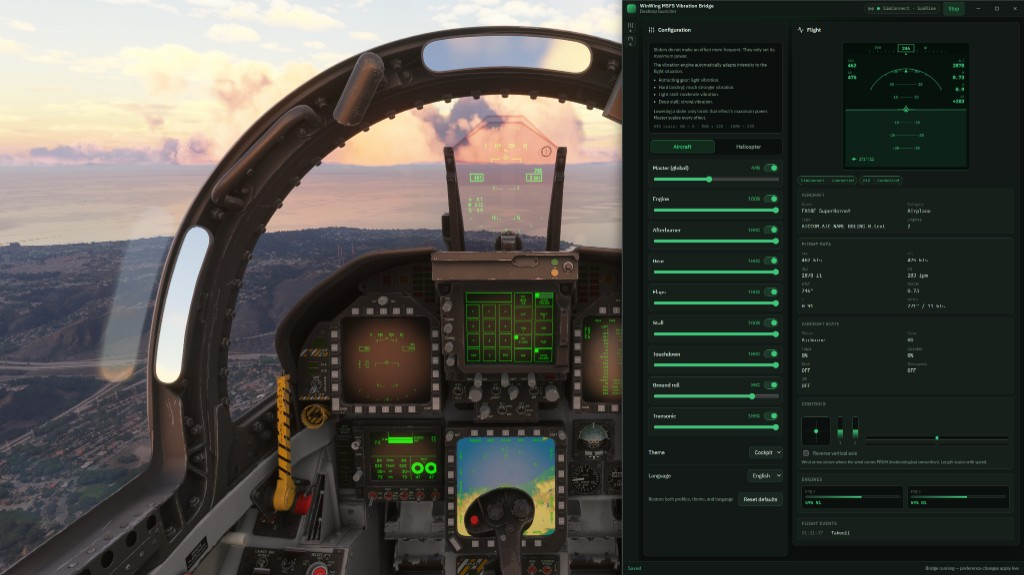
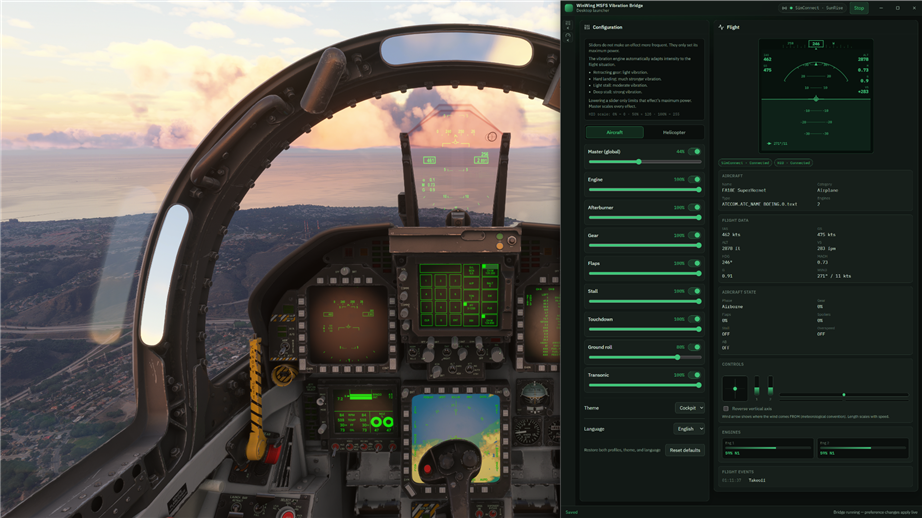
fix: harden panel collapse and keep splitter layout stable
Keep hide/show strictly horizontal with no leftover gap, clamp config width against the flight panel min size on drag/resize, and localize the splitter hints.

diff --git a/apps/launcher/src/ui/app.ts b/apps/launcher/src/ui/app.ts
@@ -187,8 +187,8 @@ export async function mountApp(
             id="panel-splitter"
             role="separator"
             aria-orientation="vertical"
-            aria-label="Resize panels"
-            title="Drag to resize · double-click to reset"
+            aria-label="${messages.panels.resize}"
+            title="${messages.panels.resizeHint}"
           >
             <span class="panel-splitter-grip" aria-hidden="true"></span>
           </div>
@@ -255,6 +255,10 @@ export async function mountApp(
   let lastSaveStatus: SaveStatus = controller.getSaveStatus()
   let splitterDragging = false
   const DEFAULT_CONFIG_WIDTH = 360
+  const MIN_CONFIG_WIDTH = 240
+  const MAX_CONFIG_WIDTH = 520
+  const MIN_FLIGHT_WIDTH = 200
+  const SPLITTER_WIDTH = 8
 
   function persistCollapsed(): void {
     try {
@@ -264,8 +268,18 @@ export async function mountApp(
     }
   }
 
+  function clampConfigWidth(widthPx: number): number {
+    const row = root.querySelector('#panels-row') as HTMLElement | null
+    const rowW = row?.clientWidth ?? 0
+    let max = MAX_CONFIG_WIDTH
+    if (rowW > 0) {
+      max = Math.min(MAX_CONFIG_WIDTH, Math.max(MIN_CONFIG_WIDTH, rowW - SPLITTER_WIDTH - MIN_FLIGHT_WIDTH))
+    }
+    return Math.min(max, Math.max(MIN_CONFIG_WIDTH, Math.round(widthPx)))
+  }
+
   function applyConfigWidth(widthPx: number): void {
-    const w = Math.min(520, Math.max(240, Math.round(widthPx)))
+    const w = clampConfigWidth(widthPx)
     panelConfig.style.flex = `0 0 ${w}px`
     panelConfig.style.maxWidth = `${w}px`
     panelConfig.style.width = `${w}px`
@@ -275,6 +289,7 @@ export async function mountApp(
     layout = root.querySelector('#layout') as HTMLElement
     panelsEmpty = root.querySelector('#panels-empty') as HTMLElement
     panelConfig = root.querySelector('#panel-config') as HTMLElement
+    const panelFlight = root.querySelector('#panel-flight') as HTMLElement
     panelSplitter = root.querySelector('#panel-splitter') as HTMLElement
     collapseBtns = Array.from(root.querySelectorAll<HTMLButtonElement>('.panel-rail-btn'))
 
@@ -284,6 +299,13 @@ export async function mountApp(
     const allHidden = collapsed.config && collapsed.flight
     layout.dataset.allCollapsed = allHidden ? 'true' : 'false'
     if (panelsEmpty) panelsEmpty.hidden = !allHidden
+
+    if (panelConfig) {
+      panelConfig.setAttribute('aria-hidden', collapsed.config ? 'true' : 'false')
+    }
+    if (panelFlight) {
+      panelFlight.setAttribute('aria-hidden', collapsed.flight ? 'true' : 'false')
+    }
 
     // Hide splitter when either panel is collapsed (nothing to resize).
     const splitterHidden = collapsed.config || collapsed.flight
@@ -564,12 +586,13 @@ export async function mountApp(
         panelSplitter.removeEventListener('pointermove', onMove)
         panelSplitter.removeEventListener('pointerup', onUp)
         panelSplitter.removeEventListener('pointercancel', onUp)
-        const width = Math.round(panelConfig.getBoundingClientRect().width)
+        const width = clampConfigWidth(panelConfig.getBoundingClientRect().width)
+        applyConfigWidth(width)
         controller.updatePreferences((current) => ({
           ...current,
           appearance: {
             ...current.appearance,
-            configPanelWidthPx: Math.min(520, Math.max(240, width)),
+            configPanelWidthPx: width,
           },
         }))
       }
@@ -579,6 +602,7 @@ export async function mountApp(
     })
 
     panelSplitter.addEventListener('dblclick', () => {
+      if (collapsed.config || collapsed.flight) return
       applyConfigWidth(DEFAULT_CONFIG_WIDTH)
       controller.updatePreferences((current) => ({
         ...current,
@@ -737,12 +761,24 @@ export async function mountApp(
 
         await win.onResized(() => {
           void syncMaximizedState()
+          if (!collapsed.config && !collapsed.flight) {
+            applyConfigWidth(prefs.appearance.configPanelWidthPx || DEFAULT_CONFIG_WIDTH)
+          } else {
+            syncPanelCollapse()
+          }
         })
       })()
     } else {
       btnMin.disabled = true
       btnMax.disabled = true
       btnClose.disabled = true
+      window.addEventListener('resize', () => {
+        if (!collapsed.config && !collapsed.flight) {
+          applyConfigWidth(prefs.appearance.configPanelWidthPx || DEFAULT_CONFIG_WIDTH)
+        } else {
+          syncPanelCollapse()
+        }
+      })
     }
   }
 

diff --git a/apps/launcher/src/styles.css b/apps/launcher/src/styles.css
@@ -305,10 +305,17 @@ body {
   min-width: 0;
   min-height: 0;
   display: flex;
+  flex-direction: row;
   gap: 12px;
   padding: 12px;
   overflow: hidden;
   position: relative;
+}
+
+/* No leftover flex gap when a panel is width-collapsed to 0. */
+.layout[data-config-collapsed='true'] .panels-row,
+.layout[data-flight-collapsed='true'] .panels-row {
+  gap: 0;
 }
 
 .panels-empty {
@@ -416,12 +423,14 @@ body {
   width: 0 !important;
   max-width: 0 !important;
   min-width: 0 !important;
+  max-height: none !important;
   opacity: 0;
-  margin: 0;
-  padding: 0;
-  border-width: 0;
-  overflow: hidden;
-  pointer-events: none;
+  margin: 0 !important;
+  padding: 0 !important;
+  border-width: 0 !important;
+  box-shadow: none !important;
+  overflow: hidden !important;
+  pointer-events: none !important;
 }
 
 .layout[data-config-collapsed='true'] .panel-flight {
@@ -431,7 +440,8 @@ body {
   width: auto !important;
   opacity: 1;
   pointer-events: auto;
-  border-width: 1px;
+  border-width: 1px !important;
+  box-shadow: 0 8px 28px rgba(0, 0, 0, 0.22);
 }
 
 .layout[data-flight-collapsed='true'] .panel-config {
@@ -441,7 +451,8 @@ body {
   width: auto !important;
   opacity: 1;
   pointer-events: auto;
-  border-width: 1px;
+  border-width: 1px !important;
+  box-shadow: 0 8px 28px rgba(0, 0, 0, 0.22);
 }
 
 .panel-body-flight {
@@ -1096,34 +1107,19 @@ select {
 }
 
 @media (max-width: 980px) {
+  /* Keep horizontal panel strip — collapse must stay lateral, never vertical. */
   .layout {
     flex-direction: row;
     overflow: hidden;
   }
 
   .panels-row {
-    flex-direction: column;
-    overflow: auto;
-  }
-
-  .panel,
-  .panel-config,
-  .panel-flight {
-    min-height: 0;
-    max-width: none;
-    flex: 1 1 auto;
-    align-self: stretch;
+    flex-direction: row;
+    overflow: hidden;
   }
 
   .panel-body-flight {
     max-height: none;
-  }
-
-  .layout[data-config-collapsed='true'] .panel-config,
-  .layout[data-flight-collapsed='true'] .panel-flight {
-    min-height: 0;
-    max-height: 0;
-    flex-basis: 0;
   }
 
   .titlebar-name {

diff --git a/apps/launcher/src/i18n/en.ts b/apps/launcher/src/i18n/en.ts
@@ -42,6 +42,8 @@ export type MessageTree = {
     hide: string
     allHiddenTitle: string
     allHiddenHint: string
+    resize: string
+    resizeHint: string
   }
   config: {
     helpLead: string
@@ -163,6 +165,8 @@ export const en: MessageTree = {
     hide: 'Hide',
     allHiddenTitle: 'All panels are hidden.',
     allHiddenHint: 'Use the buttons on the left to show Configuration or Flight.',
+    resize: 'Resize panels',
+    resizeHint: 'Drag to resize · double-click to reset',
   },
   config: {
     helpLead: 'Sliders do not make an effect more frequent. They only set its maximum power.',

diff --git a/apps/launcher/src/i18n/fr.ts b/apps/launcher/src/i18n/fr.ts
@@ -41,6 +41,8 @@ export const fr: MessageTree = {
     hide: 'Masquer',
     allHiddenTitle: 'Tous les panneaux sont masqués.',
     allHiddenHint: 'Utilisez les boutons à gauche pour afficher Configuration ou Vol.',
+    resize: 'Redimensionner les panneaux',
+    resizeHint: 'Glisser pour redimensionner · double-clic pour réinitialiser',
   },
   config: {
     helpLead: 'Les curseurs ne rendent pas un effet plus fréquent. Ils définissent uniquement sa puissance maximale.',

diff --git a/apps/launcher/test/i18n-stick-hud.test.ts b/apps/launcher/test/i18n-stick-hud.test.ts
@@ -41,6 +41,8 @@ describe('i18n', () => {
     assert.equal(fr.bridge.start, 'Démarrer')
     assert.ok(fr.config.helpLead.includes('curseurs'))
     assert.equal(formatMessage(en.config.ceilingHint, { n: 128 }), 'Ceiling ≈ 128 HID')
+    assert.ok(en.panels.resize.length > 0)
+    assert.ok(fr.panels.resizeHint.includes('double-clic'))
   })
 
   it('persists locale preference', async () => {
